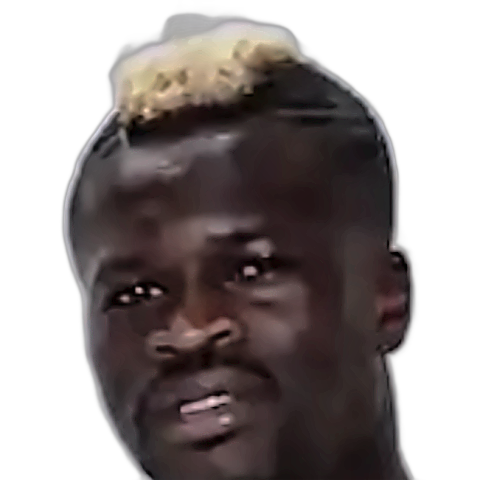
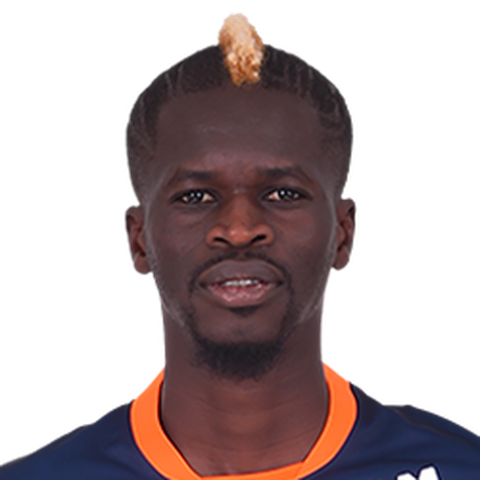
Photo : Falaye Sacko, photo officielle de Montpellier (remplace la capture floue)
Claude-Session: https://claude.ai/code/session_01HrXdBFJwxbhqadNHYHNDER

diff --git a/visuels/photos/SOURCES.md b/visuels/photos/SOURCES.md
@@ -16,4 +16,4 @@
 | mohamed-camara (id du registre) | Mohamed Camara | mohamed-camara.png (original : mohamed-camara_original.png) | https://al-saddclub.com/al-sadd-sign-mohamed-camara-on-five-year-deal/ (photo de signature, fichier envoyé par Diaby le 2026-10-16) | Al-Sadd SC | photo officielle du club, non libre : à retirer si le club le demande | 2024-08 (signature) | recadrée sur le visage (original 700 x 525, photo de groupe), fond retiré (rembg, isnet-general-use) ; qualité moindre qu'un portrait : à remplacer si un portrait officiel est trouvé |
 | fode-doucoure (id du registre) | Fodé Doucouré | fode-doucoure.png (original : fode-doucoure_original.png) | https://hac.football/en/players/2xpoljxhc1nnjveb06ipqvpt6 (fichier envoyé par Diaby le 2026-10-16) | Le Havre AC | photo officielle du club, non libre : à retirer si le club le demande | en ligne le 2026-10-16 | recadrée (tête et épaules, 480 px), fond bleu retiré (rembg, isnet-general-use) |
 | yves-bissouma (id du registre) | Yves Bissouma | yves-bissouma.png (original : yves-bissouma_original.webp) | visuel « Done deal » de la page fan « Football Fans Tribe » (montage, photo d'origine probablement officielle de l'Ajax), fichier envoyé par Diaby le 2026-10-16 ; la fiche Eredivisie n'a pas encore de photo | origine exacte inconnue | non libre, provenance à confirmer : à remplacer par la photo officielle de l'Ajax dès qu'elle est en ligne | 2026 (signature à l'Ajax) | recadrée sur la tête (320 x 320 → 480 px), fond retiré (rembg, isnet-general-use) ; aucun logo du montage dans le recadrage |
-| falaye-sacko (id du registre) | Falaye Sacko | falaye-sacko.png (original : falaye-sacko_original.png) | publication Instagram du joueur (@sacko.falaye_17), capture envoyée par Diaby le 2026-10-16 (maillot de Neftçi Bakou) | photo du club ou du joueur | non libre : à retirer si demandé | 2025-2026 | recadrée sur la tête, débruitée, contraste et netteté augmentés (OpenCV, PIL), fond retiré (rembg) : la capture était floue |
+| falaye-sacko (id du registre) | Falaye Sacko | falaye-sacko.png (original : falaye-sacko_original.png) | https://mhscfoot.com/wp-content/uploads/2025/08/77-sacko-2.png (lien donné par Diaby, fichier envoyé le 2026-10-16 ; remplace la capture Instagram floue) | Montpellier HSC | photo officielle du club, non libre : à retirer si le club le demande | 2025-08 | recadrée sur la tête (480 px), fond transparent d'origine |
